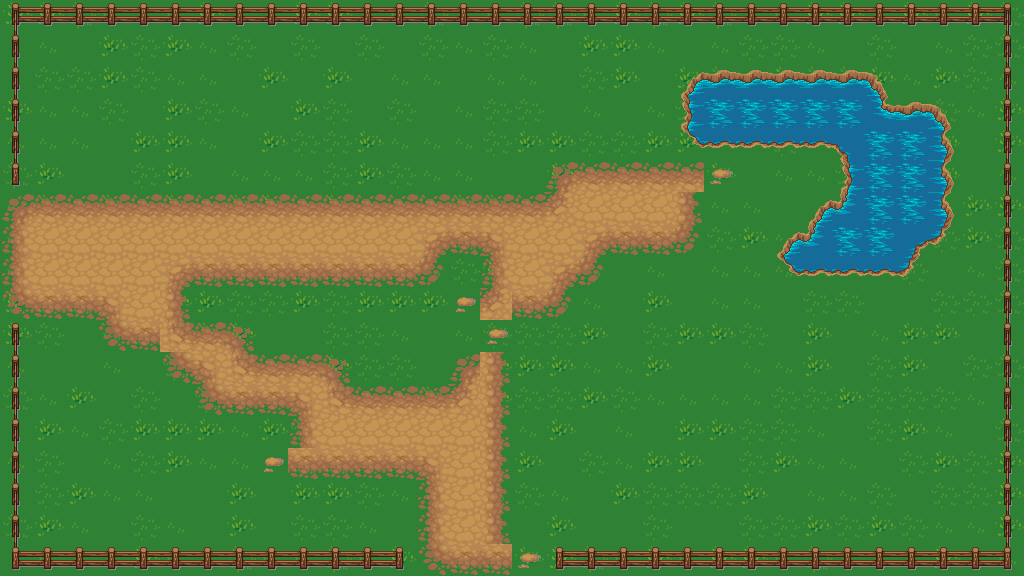
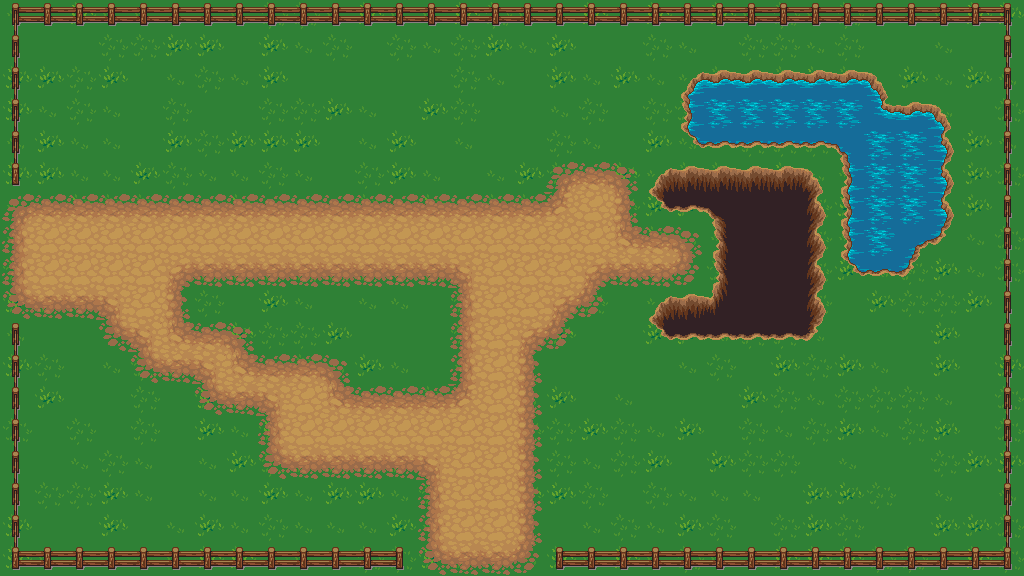
Finalizing overworld, added hole for the entrance to the dungeon

diff --git a/mapGen.py b/mapGen.py
@@ -210,6 +210,7 @@ class Map():
             elif tiles[spot] == "w": self.placeTex(water, spot, around)
             elif tiles[spot] == "f": self.placeTex(fence, spot, around)
             elif tiles[spot] == "L": self.placeTex(lava, spot, around)
+            elif tiles[spot] == "H": self.placeTex(hole, spot, around)
             elif tiles[spot] == "h": self.placeStruct(house, spot)
             elif tiles[spot] == "t": self.placeStruct(tree1, spot)
             repaint(self.map)
@@ -246,6 +247,9 @@ def tileMapToArr(tileMap):
     #printNow(len(tileArr))
     return tileArr
 
+def makeMap(tiles, base, fileName):
+    return Map(tiles, base, fileName)
+
 
 tilesPath = path + "Tiles/LPC/tiles/"
 textureMap = makePicture(path + "Tiles/hyptosis_tile-art-batch-1.png")
@@ -265,6 +269,10 @@ stone = Tile(stoneArr, true, true, false, "stone", "s")
 lavaRockMap = makePicture(tilesPath + "lavarock.png")
 lavaRockArr = tileMapToArr(lavaRockMap)
 lavaRock = Tile(lavaRockArr, true, true, false, "lavaRock", "l")
+#add hole
+holeMap = makePicture(tilesPath + "hole.png")
+holeArr = tileMapToArr(holeMap)
+hole = Tile(holeArr, true, true, false, "hole", "H")
 #add Water
 waterMap = makePicture(tilesPath + "water.png")
 waterArr = tileMapToArr(waterMap)
@@ -313,67 +321,67 @@ town += "fgdddddwwwwwwwwwwwddd..o....,,,f"
 town += "fgdddddddwwwwwwwdddddddddddd,,,f"
 town += "fggddddddgggggggddddddddddddgdgf"
 town += "ffffffffffffffffffffffffffffffff"
-townMap = Map(town, grass, "townMap.png")
+#townMap = Map(town, grass, "townMap.png")
 
-field  = "ffffffffffffffffffffffffffffffff"
-field += "fggggggggggggggggggggggggggggggf"
-field += "fggggggggggggggggggggggggggggggf"
-field += "fggggggggggwwwwwwwwwgggggggggggf"
-field += "fgggggggwwwwwwwwwwwwwggggggggggf"
-field += "fggggggwwwwwwwwwwwwwwggggggggggf"
-field += "fggggggwwwwwwwwwwwwwgggggggggggg"
-field += "fgggggwwwwwwwwgt,,gggggggggggggg"
-field += "fgggggwwwwwwggg,,,ggggwwwwwggggg"
-field += "fgggggwwwwwwggg,,,gggwwwwwwwgggg"
-field += "fgggggwwwwwwgggggggggwwwwwwwgggf"
-field += "fgggggwwwwwggggggggwwwwwwwwwgggf"
-field += "fggggggwwgggggwwwwwwwwwwwwwwgggf"
-field += "fgggggggggggwwwwwwwwwwwwwwwggggf"
-field += "fgggggggggggwwwwwwwwwwwwwggggggf"
-field += "fggggggggggggggggggggggggggggggf"
-field += "fggggggggggggggggggggggggggggggf"
-field += "fffffffffffffggggfffffffffffffff"
-fieldMap = Map(field, grass, "Nfield.png")
+nfield  = "ffffffffffffffffffffffffffffffff"
+nfield += "fggggggggggggggggggggggggggggggf"
+nfield += "fggggggggggggggggggggggggggggggf"
+nfield += "fggggggggggwwwwwwwwwgggggggggggf"
+nfield += "fgggggggwwwwwwwwwwwwwggggggggggf"
+nfield += "fggggggwwwwwwwwwwwwwwggggggggggf"
+nfield += "fggggggwwwwwwwwwwwwwdddddddddddg"
+nfield += "fgggggwwwwwwwwgt,,gddddddddddddd"
+nfield += "fgggggwwwwwwggg,,,ddddwwwwwddddd"
+nfield += "fgggggwwwwwwggg,,,dddwwwwwwwddgg"
+nfield += "fgggggwwwwwwddddddddgwwwwwwwddgf"
+nfield += "fgggggwwwwwdddddddddwwwwwwwwddgf"
+nfield += "fggggggwwdddddwwwwwwwwwwwwwwddgf"
+nfield += "fggggggggdddwwwwwwwwwwwwwwddddgf"
+nfield += "fggggggggddgwwwwwwwwwwwwwdddddgf"
+nfield += "fggggggggdddddddddddddddddddgggf"
+nfield += "fggggggggddddddddddddddddddggggf"
+nfield += "fffffffffffffddddfffffffffffffff"
+#fieldMap = Map(field, grass, "Nfield.png")
 
-field  = "fffffffffffffddddfffffffffffffff"
-field += "fggggggggggggddddggggggggggggggf"
-field += "fggggggggggggdddgggggwwwwwwwgggf"
-field += "fggggggggggggdddgggggwwwwwwwwwgf"
-field += "fggggggggggdddddggggwwwwwwwwwwgf"
-field += "fgddddddddddddddggggwwwwwwwwwwgf"
-field += "ddddddddddddddggggggwwwwwwwwwwgf"
-field += "dddddddddddddggggggggggwwwwwwwgf"
-field += "dddddwwwwgggggggggggggggwwwwwggf"
-field += "ddddwwwwwggggggggggggggggggggggf"
-field += "fggwwwwwwwggggggggggggggggt,,ggf"
-field += "fggwwwwwwwwwwwwggggggggggg,,,ggf"
-field += "fggwwwwwwwwwwwwggggggggggg,,,ggf"
-field += "fgwwwwwwwwwwwwwgggggggggt,,t,,gf"
-field += "fgwwwwwwwwwwwggggggggggg,,,,,,gf"
-field += "fggwwwwwwwgggggggggggggg,,,,,,gf"
-field += "fggggggggggggggggggggggggggggggf"
-field += "ffffffffffffffffffffffffffffffff"
-fieldMap = Map(field, grass, "Efield.png")
+efield  = "fffffffffffffddddfffffffffffffff"
+efield += "fggggggggggggddddggggggggggggggf"
+efield += "fggggggggggggdddgggggwwwwwwwgggf"
+efield += "fggggggggggggdddgggggwwwwwwwwwgf"
+efield += "fggggggggggdddddggggwwwwwwwwwwgf"
+efield += "fgddddddddddddddggggwwwwwwwwwwgf"
+efield += "ddddddddddddddggggggwwwwwwwwwwgf"
+efield += "dddddddddddddggggggggggwwwwwwwgf"
+efield += "dddddwwwwgggggggggggggggwwwwwggf"
+efield += "ddddwwwwwggggggggggggggggggggggf"
+efield += "fggwwwwwwwggggggggggggggggt,,ggf"
+efield += "fggwwwwwwwwwwwwggggggggggg,,,ggf"
+efield += "fggwwwwwwwwwwwwggggggggggg,,,ggf"
+efield += "fgwwwwwwwwwwwwwgggggggggt,,t,,gf"
+efield += "fgwwwwwwwwwwwggggggggggg,,,,,,gf"
+efield += "fggwwwwwwwgggggggggggggg,,,,,,gf"
+efield += "fggggggggggggggggggggggggggggggf"
+efield += "ffffffffffffffffffffffffffffffff"
+#fieldMap = Map(field, grass, "Efield.png")
 
-field  = "ffffffffffffffffffffffffffffffff"
-field += "fggggggggggggggggggggggggggggggf"
-field += "fggggggggggggggggggggwwwwwwwgggf"
-field += "fggggggggggggggggggggwwwwwwwwwgf"
-field += "fggggggggggggggggggggwwwwwwwwwgf"
-field += "fggggggggggggggggddddddgggwwwwgf"
-field += "ddddddddddddddddddddddgggwwwwwgf"
-field += "ddddddddddddddddddddddggwwwwwwgf"
-field += "ddddddddddddddgddddgggggwwwwwggf"
-field += "ddddddggggggggddddgggggggggggggf"
-field += "fggdddddgggggggdgggggggggggggggf"
-field += "fggggddddddgggddgggggggggggggggf"
-field += "fgggggddddddddddgggggggggggggggf"
-field += "fggggggggdddddddgggggggggggggggf"
-field += "fgggggggddddddddgggggggggggggggf"
-field += "fggggggggggggdddgggggggggggggggf"
-field += "fggggggggggggdddgggggggggggggggf"
-field += "fffffffffffffddddfffffffffffffff"
-fieldMap = Map(field, grass, "NEfield.png")
+nefield  = "ffffffffffffffffffffffffffffffff"
+nefield += "fggggggggggggggggggggggggggggggf"
+nefield += "fggggggggggggggggggggwwwwwwwgggf"
+nefield += "fggggggggggggggggggggwwwwwwwwwgf"
+nefield += "fggggggggggggggggggggwwwwwwwwwgf"
+nefield += "fggggggggggggggggdddHHHHHHwwwwgf"
+nefield += "ddddddddddddddddddddHHHHHHwwwwgf"
+nefield += "ddddddddddddddddddddddHHHHwwwwgf"
+nefield += "ddddddddddddddddddddddHHHHwwwggf"
+nefield += "ddddddggggggggdddddgHHHHHHgggggf"
+nefield += "fggdddddggggggddddggHHHHHHgggggf"
+nefield += "fgggdddddddgggdddggggggggggggggf"
+nefield += "fgggggdddddddddddggggggggggggggf"
+nefield += "fgggggggdddddddddggggggggggggggf"
+nefield += "fgggggggdddddddddggggggggggggggf"
+nefield += "fggggggggggggddddggggggggggggggf"
+nefield += "fggggggggggggddddggggggggggggggf"
+nefield += "fffffffffffffddddfffffffffffffff"
+#fieldMap = Map(field, grass, "NEfield.png")
 
 dungeon  = "ffffffffffffffffffffffffffffffff"
 dungeon += "fllllllllllllllllllllllllllllllf"
@@ -393,4 +401,4 @@ dungeon += "fllllllllllllllllllllllllllllllf"
 dungeon += "fllllllllllllllllllllllllllllllf"
 dungeon += "fllllllllllllllllllllllllllllllf"
 dungeon += "fffffffffffffllllfffffffffffffff"
-dungeonMap = Map(dungeon, lavaRock, "dungeonMap.png")
+#dungeonMap = Map(dungeon, lavaRock, "dungeonMap.png")
